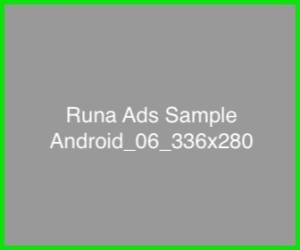
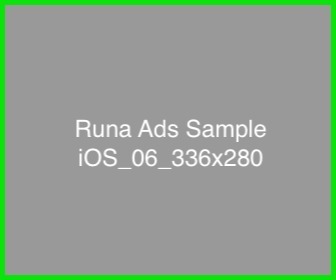
Replace image file for iOS.  Remove table contents macro(not working)

Changed region(s): [[0.15, 0.532, 0.84, 0.616], [0.21, 0.42, 0.81, 0.504]]

diff --git a/doc/bannerads/README.md b/doc/bannerads/README.md
@@ -285,10 +285,10 @@ Please make sure if it is implemented correctly.
 |      18253       | 320 x 50  |  <img src="/doc/img/dummy_ads/dummy02_320x50.png" width=300px />  |
 |      18254       | 320 x 100 | <img src="/doc/img/dummy_ads/dummy03_320x100.png" width=300px />  |
 |      18255       | 160 x 600 | <img src="/doc/img/dummy_ads/dummy04_160x600.png" height=400px /> |
-|      18256       | 728 x 90  | <img src="/doc/img/dummy_ads/dummy05_728x90.jpeg" width=300px />  |
+|      18256       | 728 x 90  | <img src="/doc/img/dummy_ads/dummy05_728x90.png" width=300px />  |
 |      18257       | 336 x 280 | <img src="/doc/img/dummy_ads/dummy06_336x280.png" width=300px />  |
-|      18258       | 970 x 90  | <img src="/doc/img/dummy_ads/dummy07_970x90.jpeg" width=300px />  |
-|      18259       | 970 x 250 | <img src="/doc/img/dummy_ads/dummy08_970x250.jpeg" width=300px /> |
+|      18258       | 970 x 90  | <img src="/doc/img/dummy_ads/dummy07_970x90.png" width=300px />  |
+|      18259       | 970 x 250 | <img src="/doc/img/dummy_ads/dummy08_970x250.png" width=300px /> |
 |      18260       | 300 x 600 | <img src="/doc/img/dummy_ads/dummy09_300x600.png" width=300px />  |
 
 

diff --git a/README.md b/README.md
@@ -6,13 +6,18 @@
 ![Xcode](http://img.shields.io/badge/IDE-Xcode_10+-blue.svg?style=flat)
 
 # Rakuten Publisher Service iOS SDK
-
-- Table of Content
-{:toc}
+* [Ad Formats](#ad-formats)
+* [Get Started](#get-started)
+* [Prerequisites](#prerequisites)
+* [Integrate SDK](#integrate-sdk)
+* [CocoaPods](#cocoapods)
+* [Swift Package Manager](#swift-package-manager)
+* [M1 support](#m1-support)
 
 ### [Ad Formats](#ad-formats)
 
 - **[Banner Ad](./doc/bannerads/README.md)**
+- **[CarouselAds](./doc/bannerads/carousel/README.md)**
 - **[Interstitial Ad](./doc/interstitial/README.md)**
 
 ---
@@ -72,6 +77,7 @@ end
 ---
 
 [Banner Ad](./doc/bannerads/README.md)<br>
+[CarouselAds](./doc/bannerads/carousel/README.md)<br>
 [Interstitial Ad](./doc/interstitial/README.md)<br>
 [Viewability Measurement](./doc/measurement/README.md)
 
